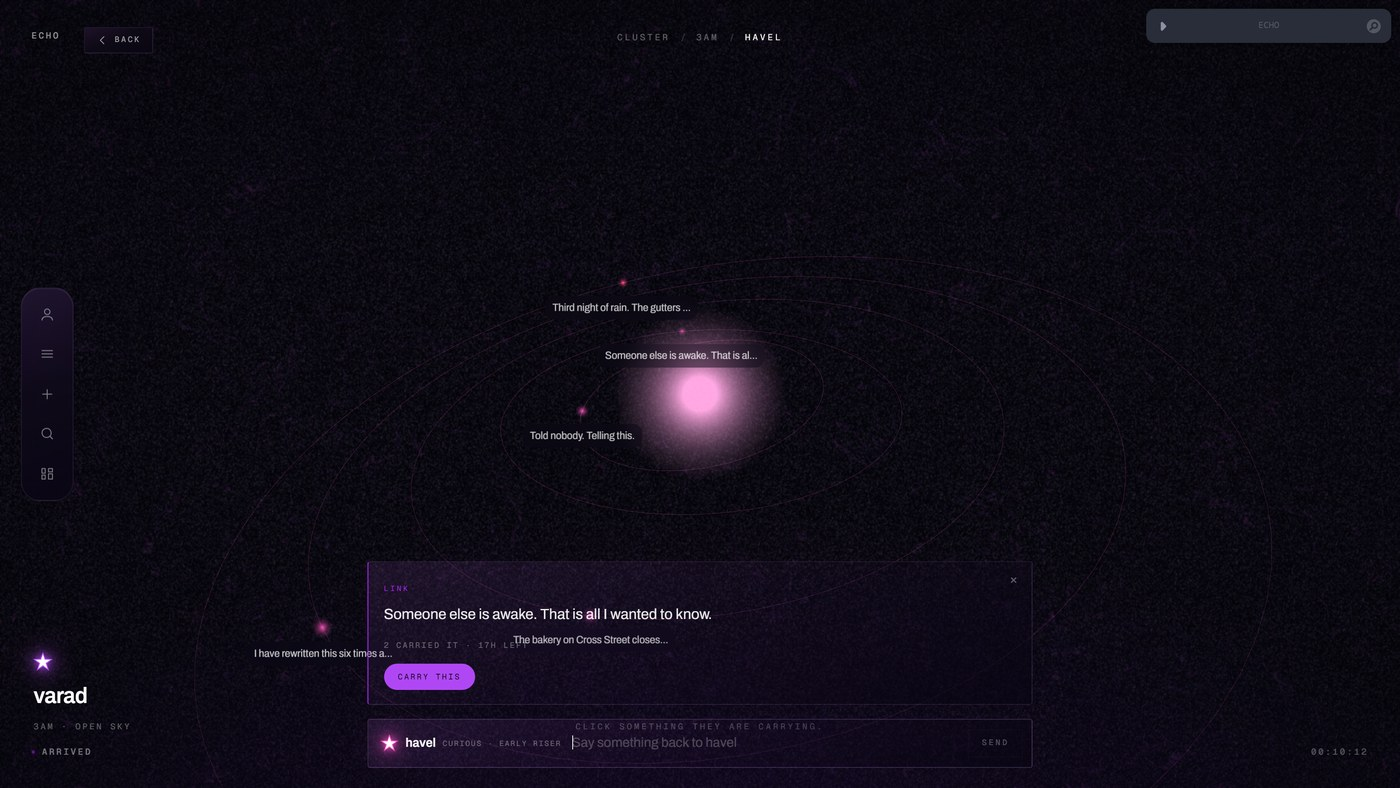
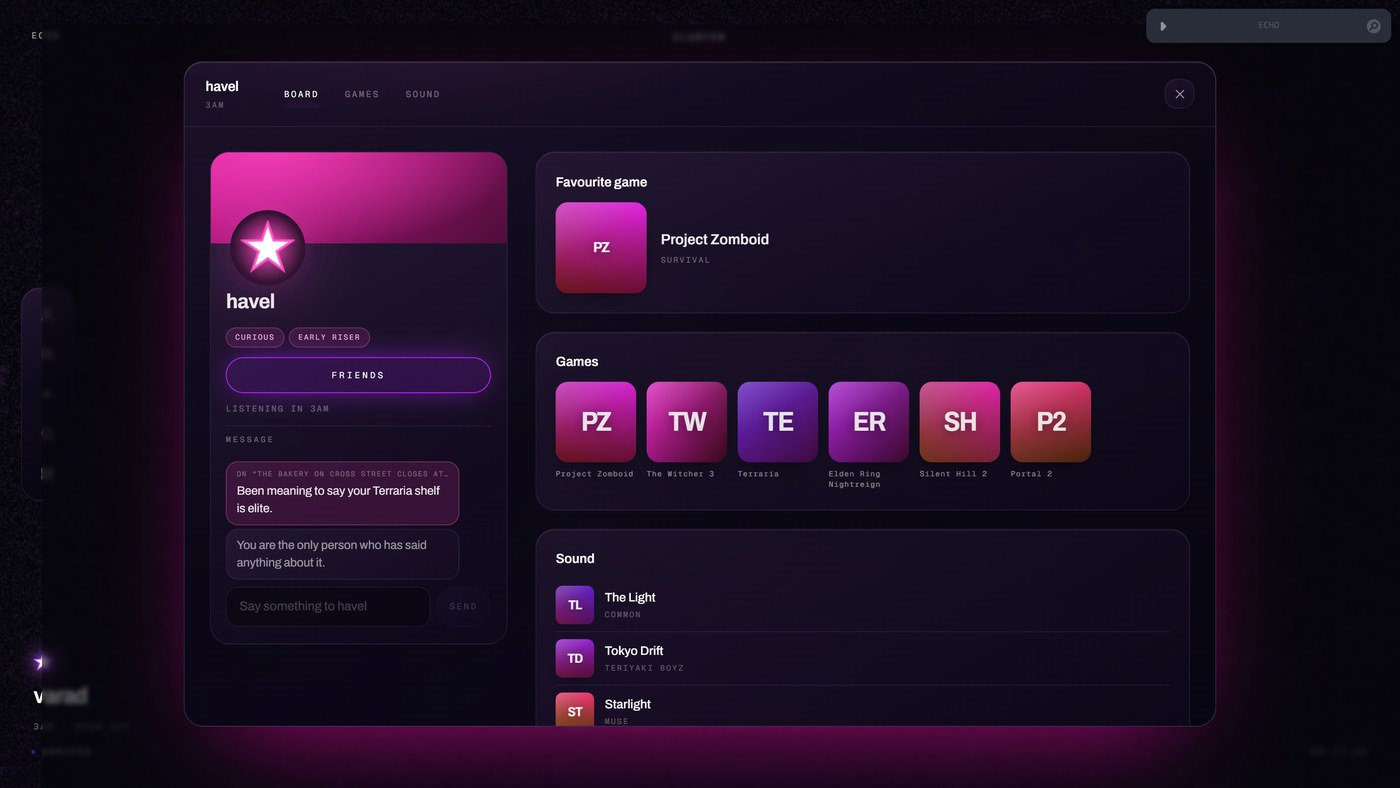
Document the social half, and the screens that describe it
The README and the guide described a version where a carry was a count,
replies vanished into nowhere, nobody ever answered, and adding somebody
changed nothing. Both now cover what the place actually does, plus the
WebGL fallback and the reduced-motion behaviour.

Re-shot the two screenshots whose copy changed.

diff --git a/public/guide.html b/public/guide.html
@@ -529,7 +529,21 @@ footer a { color: var(--ink-2); }
       <b>Decay</b>
       <span>Silence is fatal, by default. A signal nobody carries fades from violet to amber and disappears. <b>Attention is not a score here; it is life support.</b></span>
     </li>
+    <li>
+      <b>By name</b>
+      <span>A carry is reported as <em>carried by north</em>, or <em>carried by nobody</em> — never as a count. Which person chose to hold your thing is the payoff; a number is the one thing this place refuses to put on anybody's work.</span>
+    </li>
   </ul>
+
+  <div class="col">
+    <p>
+      Those three make the shape. What follows from them is the part that
+      actually feels like a social network: you find out <em>who</em> carried
+      you, a reply carries what it was about, people answer back — about half
+      the time, after a few minutes — and somebody you add is marked in the sky
+      wherever you meet them again.
+    </p>
+  </div>
 
   <figure>
     <svg viewBox="0 0 720 200" role="img" aria-label="A signal moves from one person to another and its clock restarts; an uncarried one fades to amber and disappears.">

diff --git a/README.md b/README.md
@@ -152,6 +152,25 @@ other people.
 one thing: dying. It is deliberately absent from the colours you can pick for
 yourself.
 
+**You find out who.** A carry is reported by name — *carried by north*, or
+*carried by nobody* — never as a count. Which person chose to hold your thing
+is the whole payoff of the mechanic, and a number is the one thing ECHO refuses
+to put on anybody's work.
+
+**Replies keep their subject.** Answering something of somebody's carries what
+it was about, so a reply never arrives as a message from nowhere. People answer
+back, too — about half the time, after a few minutes — so a thread reads as two
+people rather than a transcript of you talking to a wall.
+
+**Adding somebody marks their star.** A dot in their own accent, wherever you
+meet them in the sky, and a list in the dashboard of the ones you have not
+spoken to yet. The sky stops being the same generated field for everyone.
+
+**One badge, on your own inbox.** The dashboard carries a dot when something has
+landed since you last looked. It is a count of things waiting to be read rather
+than a measure of how well anything did, and it goes back to nothing the moment
+you read them.
+
 ### The five controls
 
 | | |
@@ -183,6 +202,17 @@ is ever in at one moment. It can be replayed from the menu.
 
 The longer version is the **[field guide](https://varadharajanv0310.github.io/ECHO/guide.html)**,
 which ships from the same build.
+
+### When it cannot run
+
+Every part of ECHO worth seeing is a shader, so there is a real screen for a
+browser that cannot open a WebGL context — what is wrong, the three things it
+usually is, and the two links that still work. Hardware acceleration is off by
+default on a lot of remote desktops and virtual machines. `?nogl` forces it.
+
+`prefers-reduced-motion` is honoured: the flashframe softens by default and the
+decorative animations collapse. The scroll-driven parts stay, because the road
+only moves when a reader moves it.
 
 ### Light mode
 
